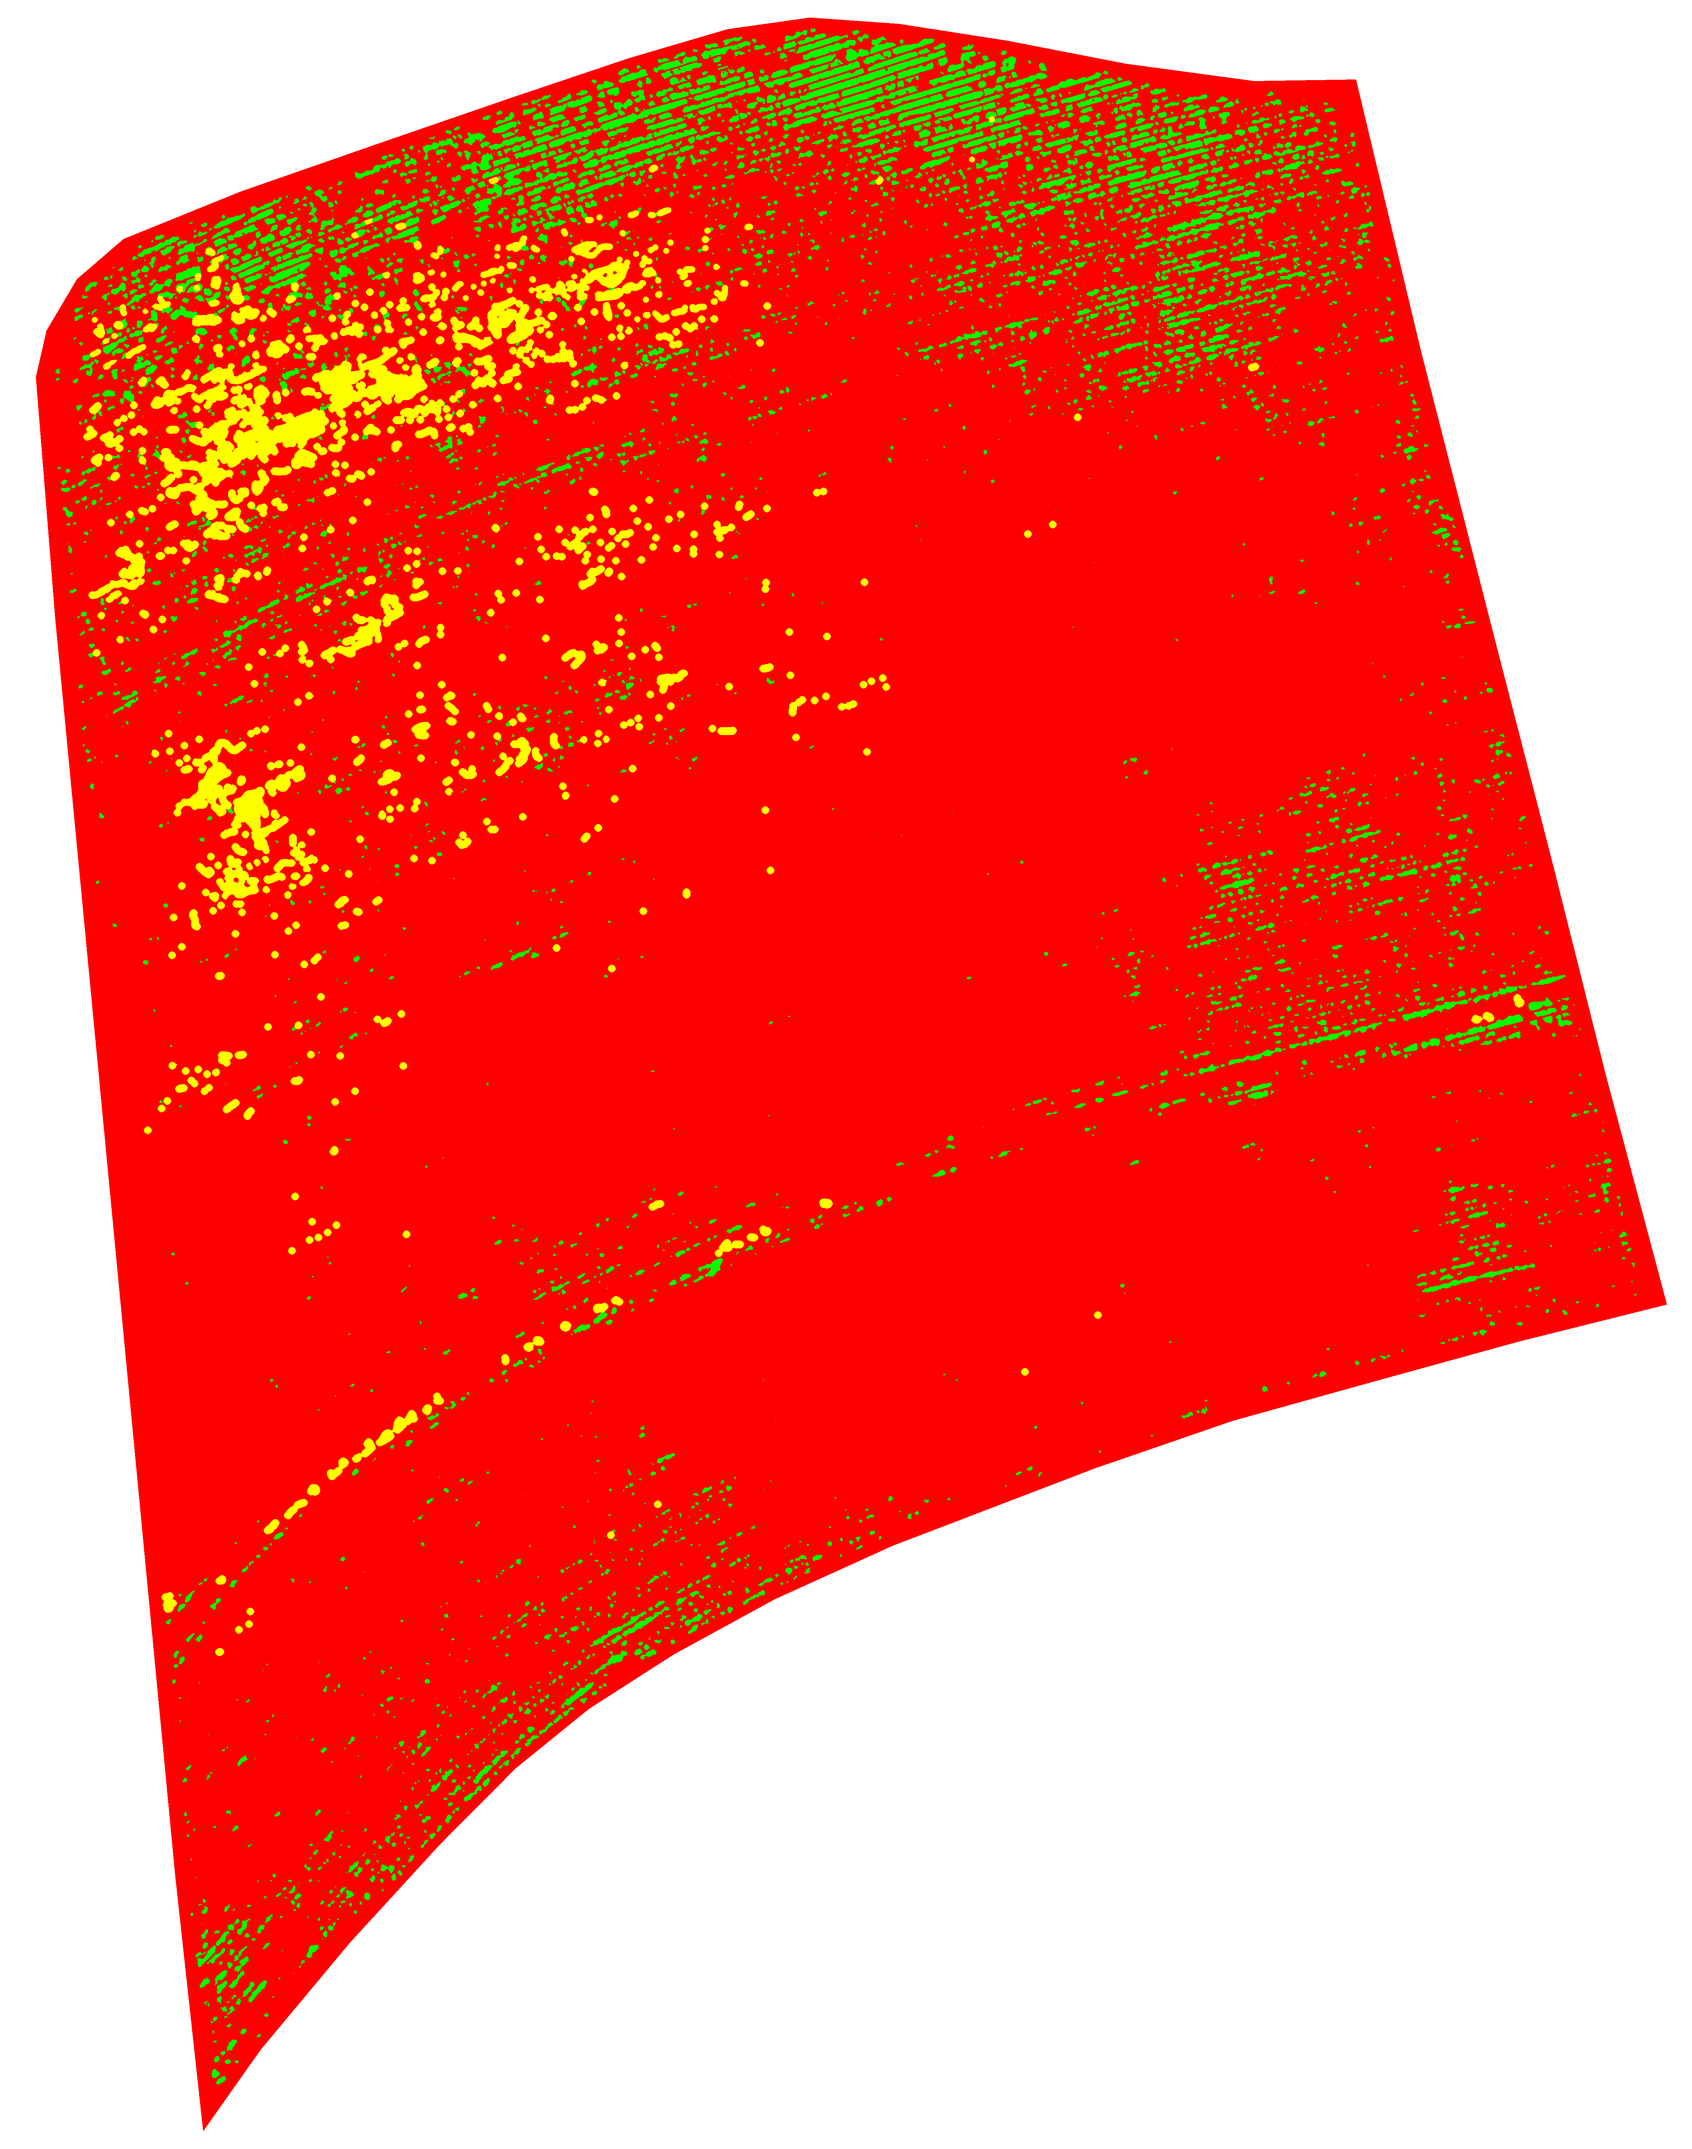
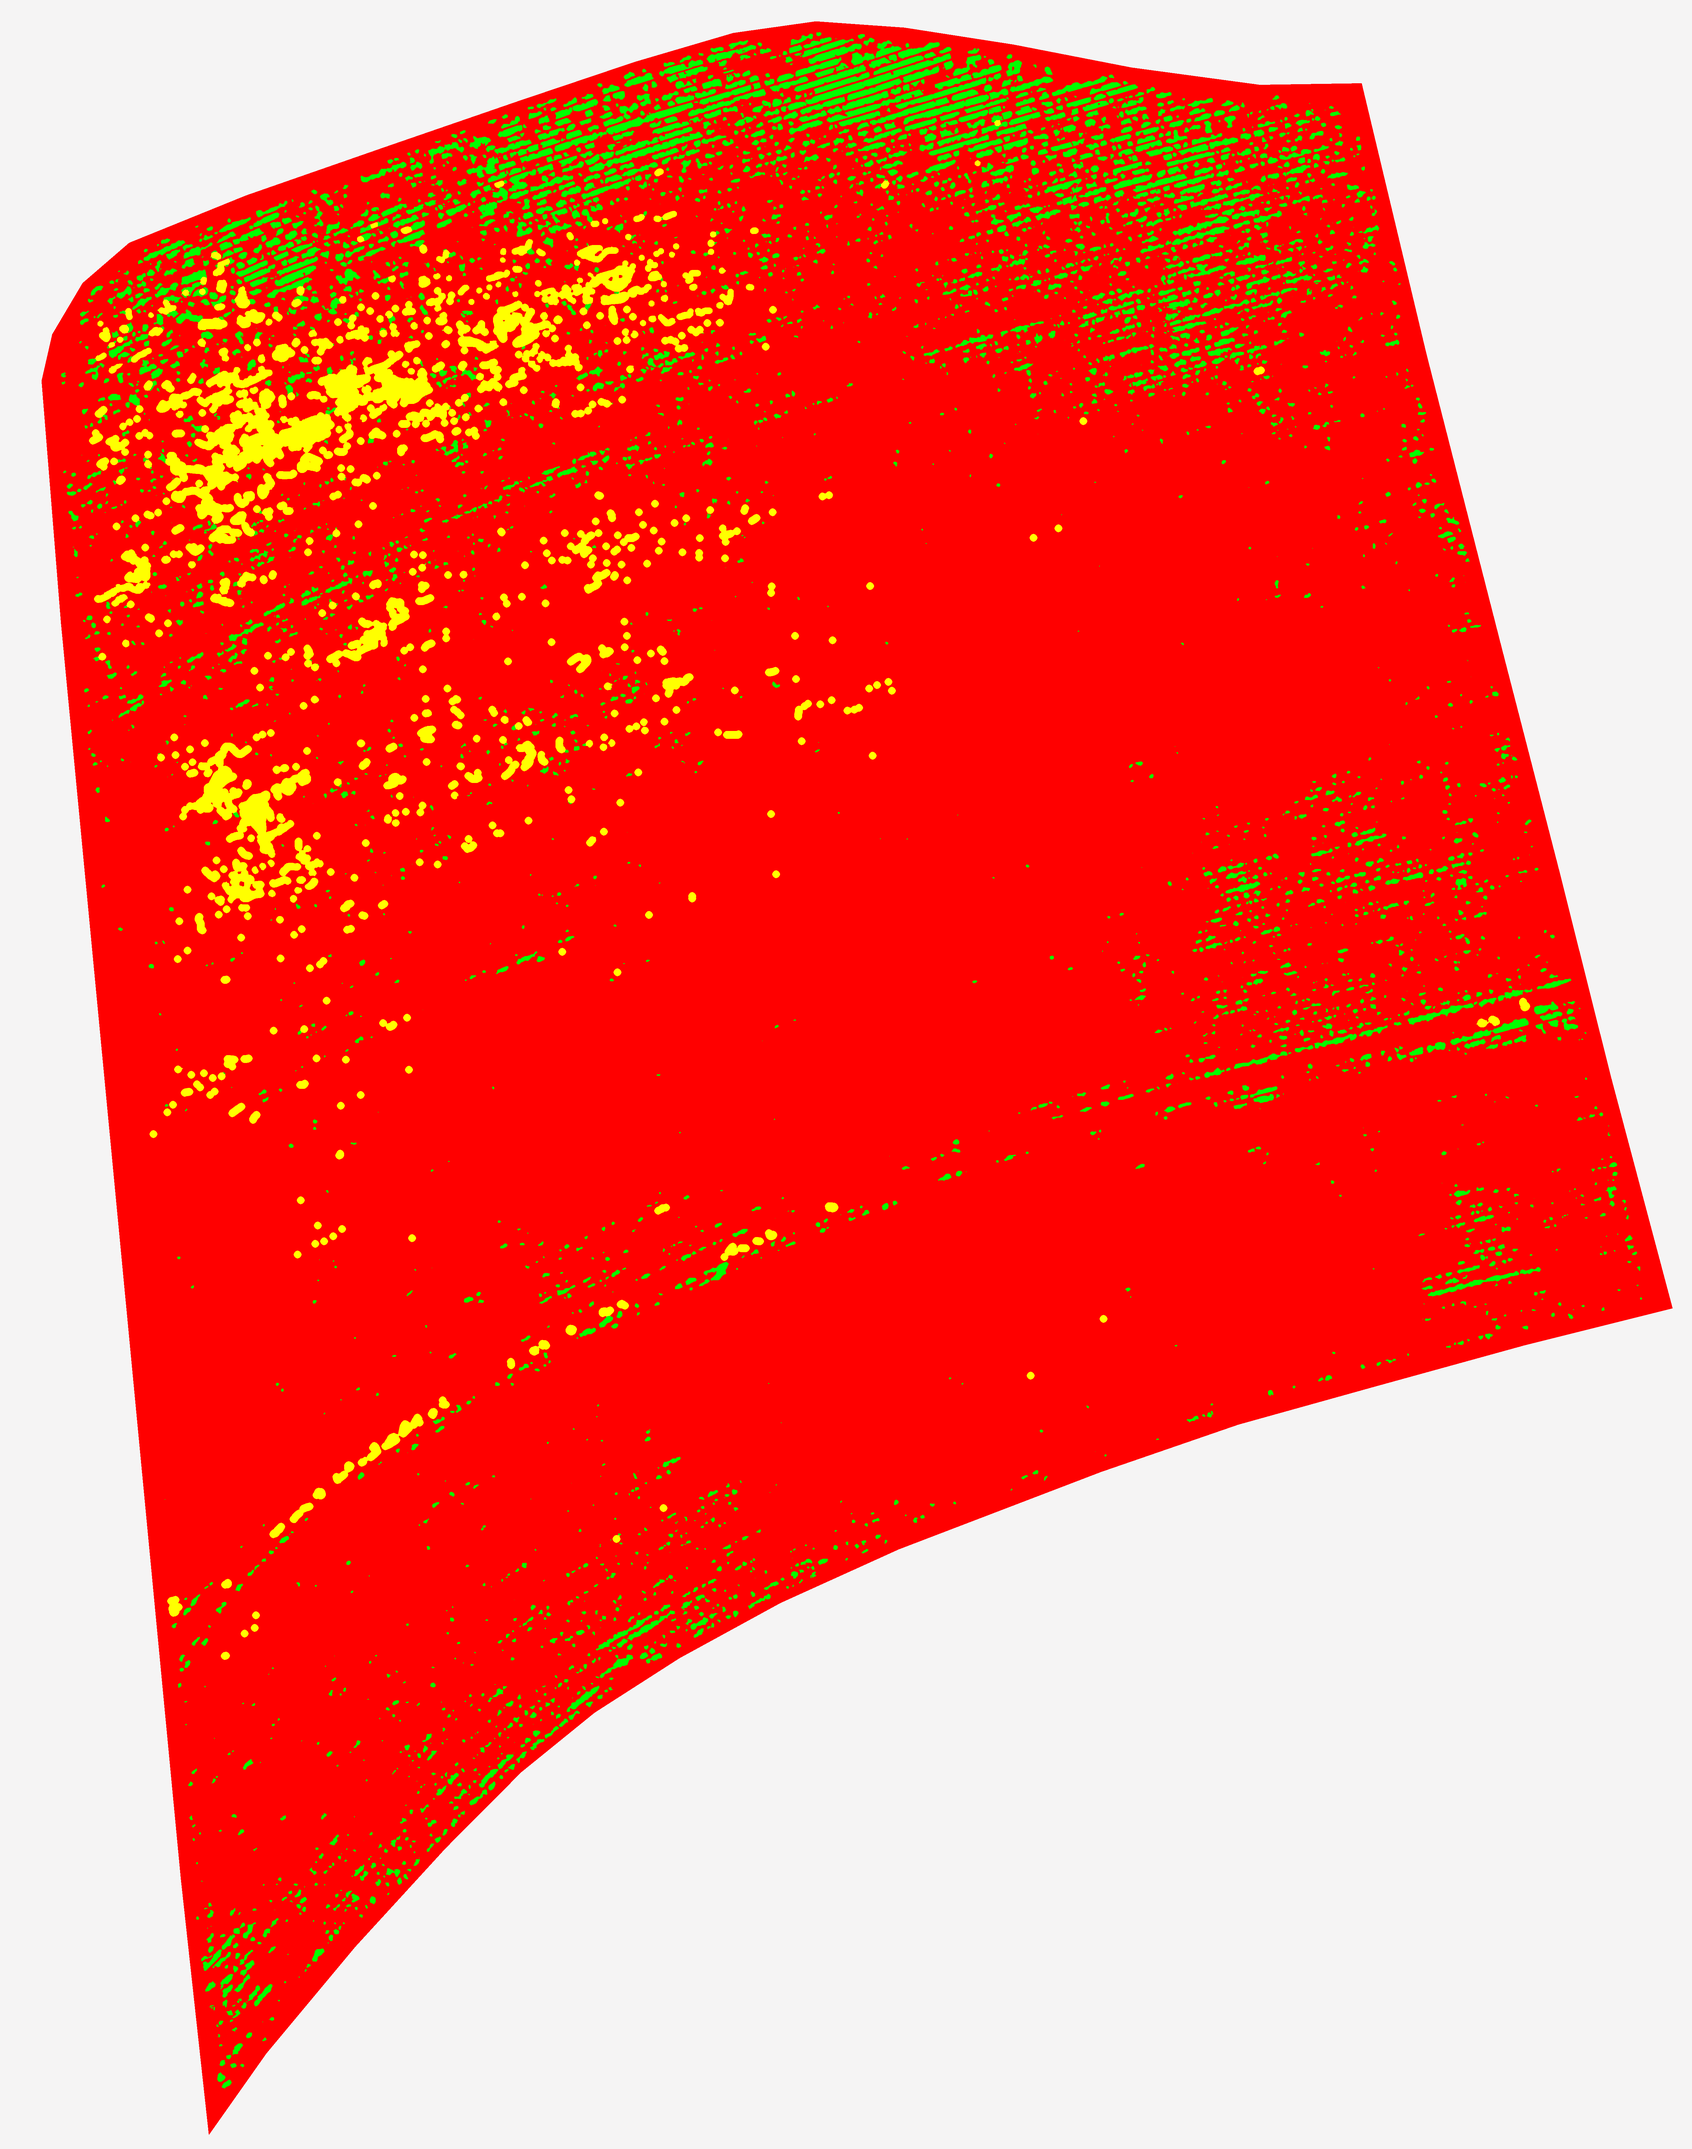
DTU cool gray

diff --git a/docs/poster/main.tex b/docs/poster/main.tex
@@ -87,7 +87,7 @@
 The data used in this project is one drone image of a field, which is illustrated as the following.
 \begin{figure}
 \centering
-\includegraphics[width=.7\linewidth]{raw-min}
+\includegraphics[width=.7\linewidth]{raw-min2}
 \end{figure}
 \begin{itemize}
 	\item How the image came to be
@@ -108,19 +108,15 @@ The data used in this project is one drone image of a field, which is illustrate
 %% "Skip connections"" + Adam 
 
 \begin{figure}
-	\begin{fadebox}\centering
+	\centering
 	\includegraphics[width=0.8\linewidth]{Structure}
-	\end{fadebox}
 	\caption{}
 	\label{fig:Structure}
 \end{figure}
  
 \begin{figure}
 	\centering
-	\begin{fadebox}
 	\includegraphics[width=1\linewidth]{pool}
-	
-	\end{fadebox}
 	\label{fig:maxpool}
 \end{figure}
 The encoder part of the network creates a rich feature map representing the image content. The more 
@@ -152,9 +148,9 @@ L = \frac 1 N \sum_{i=1}^{N} \mathbf{w}[i, c_i]  \cdot
 
 
 \begin{figure}
-	\begin{fadebox}\begin{center}
+	\begin{center}
 			\includegraphics[width=\linewidth,origin=c]{loss}
-	\end{center}\end{fadebox}
+	\end{center}
 	\caption{An example caption. Figures can be wrapped in the \texttt{fadebox} 
 		environment to provide them with a white background. Note that you have to align the 
 		figure again.}\label{fig:example2}
@@ -217,14 +213,13 @@ L = \frac 1 N \sum_{i=1}^{N} \mathbf{w}[i, c_i]  \cdot
 %Kort beskrivelse af resultater 
 
 \begin{figure}
-	\begin{fadebox}\centering
+	\centering
 \subfloat{
-	\includegraphics[width=.5\linewidth]{target}	
+	\includegraphics[width=.5\linewidth]{target2}	
 }
 \subfloat{
-\includegraphics[width=.5\linewidth]{anno}	
+\includegraphics[width=.5\linewidth]{anno2}	
 }
-\end{fadebox}
 \caption{An example caption. This figure supports transparency and looks fine on 
 the coloured background}\label{fig:example}
 \end{figure}
@@ -245,9 +240,9 @@ the coloured background}\label{fig:example}
 \end{itemize}
 
 \begin{figure}
-	\begin{fadebox}\begin{center}
+	\begin{center}
 			\includegraphics[width=\linewidth,origin=c]{reconst}
-	\end{center}\end{fadebox}
+	\end{center}
 \end{figure}
 
 
